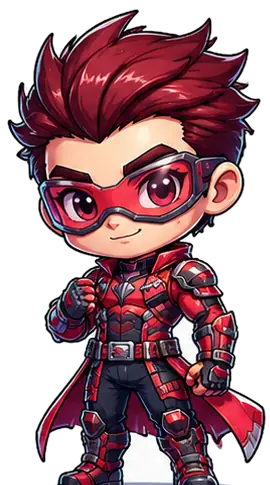
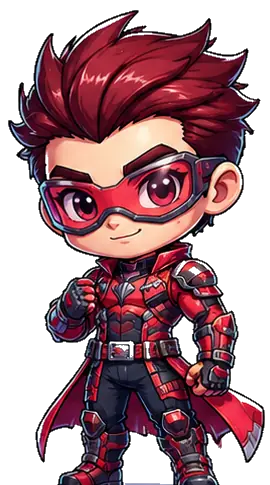
Fix character backgrounds and mobile stage layout
Release V20.2: transparent character cutouts, per-character safe scaling, centered ultimate panel, and stage clipping.

diff --git a/premium_skin.css b/premium_skin.css
@@ -668,3 +668,69 @@ html[data-theme="light"] .villain-sprite{filter:drop-shadow(0 18px 15px rgba(50,
 @media(prefers-reduced-motion:reduce){
   .figure-specular,.figure-eye-flash,.asset-villain[data-motion="orbit"] .villain-sprite,.asset-villain[data-motion="specter"] .villain-sprite{animation:none!important}
 }
+
+/* =========================================================
+   V20.2 — CHARACTER SAFE AREA / CENTERED ULTIMATE
+   Every figure gets its own optical scale. The stage clips only its own
+   artwork, so no hero or boss can cover the level, stats or action cards.
+   ========================================================= */
+.premium-hero-stage{overflow:hidden!important;contain:paint;min-height:255px!important}
+.level-card,.mini-stats,.action-grid{position:relative;z-index:2}
+
+.hero-model{--hero-art-size:80%}
+.hero-model[data-model="arsen"]{--hero-art-size:80%}
+.hero-model[data-model="nika"]{--hero-art-size:76%}
+.hero-model[data-model="rey"]{--hero-art-size:82%}
+.hero-model[data-model="mira"]{--hero-art-size:78%}
+.hero-model[data-model="kai"]{--hero-art-size:82%}
+.hero-model[data-model="umbra"]{--hero-art-size:80%}
+.hero-model .figure-body-plane .chibi-sprite,
+.hero-model .figure-extrusion img{width:var(--hero-art-size)!important;height:var(--hero-art-size)!important;object-fit:contain!important}
+
+.asset-villain{--villain-art-size:84%}
+.asset-villain[data-villain="morana"]{--villain-art-size:82%}
+.asset-villain[data-villain="volt"]{--villain-art-size:86%}
+.asset-villain[data-villain="magnetron"]{--villain-art-size:84%}
+.asset-villain[data-villain="burrower"]{--villain-art-size:86%}
+.asset-villain[data-villain="grimoire"]{--villain-art-size:82%}
+.asset-villain[data-villain="cryon"]{--villain-art-size:84%}
+.asset-villain[data-villain="onyx"]{--villain-art-size:84%}
+.asset-villain[data-villain="singular"]{--villain-art-size:84%}
+.asset-villain .figure-body-plane .villain-sprite,
+.asset-villain .villain-extrusion img{width:var(--villain-art-size)!important;height:var(--villain-art-size)!important;object-fit:contain!important}
+
+.hero-button:not(.threat-mode){margin-bottom:28px!important}
+.ultimate-panel{
+  left:50%!important;right:auto!important;bottom:7px!important;margin:0!important;
+  width:min(300px,70%)!important;
+  transform:translateX(-50%) translateZ(40px)!important;
+  transform-origin:50% 50%!important
+}
+
+@media(max-width:900px){
+  .premium-hero-stage{min-height:238px!important}
+  .hero-model[data-model="arsen"]{--hero-art-size:74%}
+  .hero-model[data-model="nika"]{--hero-art-size:72%}
+  .hero-model[data-model="rey"]{--hero-art-size:78%}
+  .hero-model[data-model="mira"]{--hero-art-size:75%}
+  .hero-model[data-model="kai"]{--hero-art-size:78%}
+  .hero-model[data-model="umbra"]{--hero-art-size:76%}
+  .asset-villain[data-villain]{--villain-art-size:80%}
+  .asset-villain[data-villain="morana"],.asset-villain[data-villain="grimoire"]{--villain-art-size:77%}
+  .hero-button:not(.threat-mode){margin-bottom:25px!important}
+  .ultimate-panel{width:min(286px,72%)!important;bottom:6px!important}
+}
+
+@media(max-width:520px){
+  .premium-hero-stage{min-height:224px!important}
+  .hero-model[data-model="arsen"]{--hero-art-size:68%}
+  .hero-model[data-model="nika"]{--hero-art-size:66%}
+  .hero-model[data-model="rey"]{--hero-art-size:72%}
+  .hero-model[data-model="mira"]{--hero-art-size:68%}
+  .hero-model[data-model="kai"]{--hero-art-size:72%}
+  .hero-model[data-model="umbra"]{--hero-art-size:70%}
+  .asset-villain[data-villain]{--villain-art-size:74%}
+  .asset-villain[data-villain="morana"],.asset-villain[data-villain="grimoire"]{--villain-art-size:71%}
+  .hero-button:not(.threat-mode){margin-bottom:23px!important}
+  .ultimate-panel{width:min(272px,76%)!important;bottom:5px!important}
+}

diff --git a/index.html b/index.html
@@ -5,10 +5,10 @@
   <meta name="viewport" content="width=device-width,initial-scale=1,maximum-scale=1,user-scalable=no,viewport-fit=cover">
   <meta name="theme-color" content="#160508">
   <title>Багровая Сеть: Живые Злодеи</title>
-  <link rel="stylesheet" href="style.css?v=20.0.1">
-  <link rel="stylesheet" href="premium_skin.css?v=20.0.1">
+  <link rel="stylesheet" href="style.css?v=20.0.2">
+  <link rel="stylesheet" href="premium_skin.css?v=20.0.2">
 </head>
-<body data-build="0.20.1">
+<body data-build="0.20.2">
   <div class="comic-bg" aria-hidden="true">
     <div class="moon"></div>
     <div class="speed-lines"></div>
@@ -36,7 +36,7 @@
 
   <div id="releaseSplash" class="release-splash">
     <div class="release-splash-glow"></div>
-    <img src="assets/chibi/arsen.webp" alt="" class="release-splash-hero">
+    <img src="assets/chibi/arsen.webp?v=20.0.2" alt="" class="release-splash-hero">
     <div class="release-splash-logo">◆</div>
     <h1>БАГРОВАЯ СЕТЬ</h1>
     <p>WebGL Patrol</p>
@@ -47,7 +47,7 @@
   <div class="app">
     <header class="hud glass premium-hud">
       <div class="hud-profile">
-        <div class="hud-avatar-frame"><img id="topHeroAvatar" src="assets/chibi/arsen.webp" alt="Герой"></div>
+        <div class="hud-avatar-frame"><img id="topHeroAvatar" src="assets/chibi/arsen.webp?v=20.0.2" alt="Герой"></div>
         <div class="hud-level-copy"><span>УРОВЕНЬ</span><b id="rankText">1</b><div class="rank-track"><div id="rankFill"></div></div><small id="xpText">0 / 100 XP</small></div>
       </div>
       <button class="hud-resource hud-coin" data-home-focus="true"><span class="hud-resource-icon">✦</span><div><b id="topThreats">0</b><small id="topPerSecond">+0/сек</small></div></button>
@@ -595,7 +595,7 @@
   <div id="tutorialOverlay" class="tutorial-overlay hidden">
     <div id="tutorialDim" class="tutorial-dim"></div>
     <div class="tutorial-coach">
-      <img src="assets/chibi/arsen.webp" alt="Арсен">
+      <img src="assets/chibi/arsen.webp?v=20.0.2" alt="Арсен">
       <div class="tutorial-copy">
         <span id="tutorialEyebrow">ПЕРВЫЙ ПАТРУЛЬ · 1/5</span>
         <b id="tutorialTitle">Проверь паутину</b>
@@ -609,7 +609,7 @@
 
 
   <aside id="rcDiagnostics" class="rc-diagnostics hidden" aria-label="Release Candidate diagnostics">
-    <div class="rc-diag-head"><b>BUILD 0.20.1</b><button id="rcDiagClose" type="button">×</button></div>
+    <div class="rc-diag-head"><b>BUILD 0.20.2</b><button id="rcDiagClose" type="button">×</button></div>
     <div class="rc-diag-grid">
       <span>SDK</span><b id="diagSdk">waiting</b>
       <span>Game Ready</span><b id="diagReady">no</b>
@@ -623,6 +623,6 @@
     <small>?rc-debug=1 · для проверки черновика</small>
   </aside>
 
-  <script src="game.js?v=20.0.1"></script>
+  <script src="game.js?v=20.0.2"></script>
 </body>
 </html>

diff --git a/phone.html b/phone.html
@@ -5,10 +5,10 @@
   <meta name="viewport" content="width=device-width,initial-scale=1,maximum-scale=1,user-scalable=no,viewport-fit=cover">
   <meta name="theme-color" content="#160508">
   <title>Багровая Сеть: Живые Злодеи</title>
-  <link rel="stylesheet" href="style.css?v=20.0.1">
-  <link rel="stylesheet" href="premium_skin.css?v=20.0.1">
+  <link rel="stylesheet" href="style.css?v=20.0.2">
+  <link rel="stylesheet" href="premium_skin.css?v=20.0.2">
 </head>
-<body data-build="0.20.1">
+<body data-build="0.20.2">
   <div class="comic-bg" aria-hidden="true">
     <div class="moon"></div>
     <div class="speed-lines"></div>
@@ -36,7 +36,7 @@
 
   <div id="releaseSplash" class="release-splash">
     <div class="release-splash-glow"></div>
-    <img src="assets/chibi/arsen.webp" alt="" class="release-splash-hero">
+    <img src="assets/chibi/arsen.webp?v=20.0.2" alt="" class="release-splash-hero">
     <div class="release-splash-logo">◆</div>
     <h1>БАГРОВАЯ СЕТЬ</h1>
     <p>WebGL Patrol</p>
@@ -47,7 +47,7 @@
   <div class="app">
     <header class="hud glass premium-hud">
       <div class="hud-profile">
-        <div class="hud-avatar-frame"><img id="topHeroAvatar" src="assets/chibi/arsen.webp" alt="Герой"></div>
+        <div class="hud-avatar-frame"><img id="topHeroAvatar" src="assets/chibi/arsen.webp?v=20.0.2" alt="Герой"></div>
         <div class="hud-level-copy"><span>УРОВЕНЬ</span><b id="rankText">1</b><div class="rank-track"><div id="rankFill"></div></div><small id="xpText">0 / 100 XP</small></div>
       </div>
       <button class="hud-resource hud-coin" data-home-focus="true"><span class="hud-resource-icon">✦</span><div><b id="topThreats">0</b><small id="topPerSecond">+0/сек</small></div></button>
@@ -595,7 +595,7 @@
   <div id="tutorialOverlay" class="tutorial-overlay hidden">
     <div id="tutorialDim" class="tutorial-dim"></div>
     <div class="tutorial-coach">
-      <img src="assets/chibi/arsen.webp" alt="Арсен">
+      <img src="assets/chibi/arsen.webp?v=20.0.2" alt="Арсен">
       <div class="tutorial-copy">
         <span id="tutorialEyebrow">ПЕРВЫЙ ПАТРУЛЬ · 1/5</span>
         <b id="tutorialTitle">Проверь паутину</b>
@@ -609,7 +609,7 @@
 
 
   <aside id="rcDiagnostics" class="rc-diagnostics hidden" aria-label="Release Candidate diagnostics">
-    <div class="rc-diag-head"><b>BUILD 0.20.1</b><button id="rcDiagClose" type="button">×</button></div>
+    <div class="rc-diag-head"><b>BUILD 0.20.2</b><button id="rcDiagClose" type="button">×</button></div>
     <div class="rc-diag-grid">
       <span>SDK</span><b id="diagSdk">waiting</b>
       <span>Game Ready</span><b id="diagReady">no</b>
@@ -623,6 +623,6 @@
     <small>?rc-debug=1 · для проверки черновика</small>
   </aside>
 
-  <script src="game.js?v=20.0.1"></script>
+  <script src="game.js?v=20.0.2"></script>
 </body>
 </html>

diff --git a/game.js b/game.js
@@ -1,7 +1,7 @@
 (() => {
 "use strict";
 
-const BUILD_VERSION="0.20.1";
+const BUILD_VERSION="0.20.2";
 const STORAGE_KEY="crimson_web_patrol_v20";
 const LEGACY_STORAGE_KEYS=["crimson_web_patrol_v19","crimson_web_patrol_v18_1","crimson_web_patrol_v18"];
 const SUPPORTED_GAME_LANGS=["ru"];
@@ -72,7 +72,7 @@ const DANGER_TIERS=[
 
 const HERO_LINES=["Город ещё не спит.","Вижу движение на крышах.","Сеть чувствует угрозу.","Ещё один квартал под защитой.","Нельзя терять темп.","Слышишь сирены? Я уже там.","Сегодня город будет тише.","Держим линию.","Есть контакт. Работаем.","Крыши — лучший наблюдательный пункт."];
 
-const CHIBI_ASSETS={arsen:"assets/chibi/arsen.webp",nika:"assets/chibi/nika.webp",rey:"assets/chibi/rey.webp",mira:"assets/chibi/mira.webp",kai:"assets/chibi/kai.webp",umbra:"assets/chibi/umbra.webp"};
+const CHIBI_ASSETS={arsen:"assets/chibi/arsen.webp?v=20.0.2",nika:"assets/chibi/nika.webp?v=20.0.2",rey:"assets/chibi/rey.webp?v=20.0.2",mira:"assets/chibi/mira.webp?v=20.0.2",kai:"assets/chibi/kai.webp?v=20.0.2",umbra:"assets/chibi/umbra.webp?v=20.0.2"};
 const VILLAIN_ASSETS={morana:"assets/villains/morana.webp",volt:"assets/villains/volt.webp",magnetron:"assets/villains/magnetron.webp",burrower:"assets/villains/burrower.webp",grimoire:"assets/villains/grimoire.webp",cryon:"assets/villains/cryon.webp",onyx:"assets/villains/onyx.webp",singular:"assets/villains/singular.webp"};
 const VILLAIN_PROFILES={
  morana:{asset:"morana",name:"Морана · Алый Мираж",skin:"#9d1835",dark:"#260913",glow:"#ff5aa9",stroke:"#ffd2eb",accent:"#ff3f83",motion:"stalker"},
